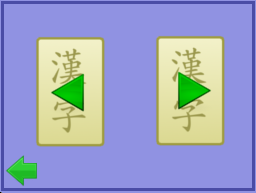
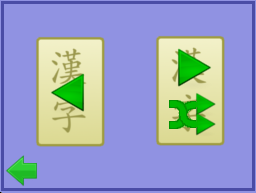
Extended database. Added next random card button. Fixed textboxes positions reset. Changed sounds volume.

Changed region(s): [[0.6562, 0.2487, 0.8438, 0.715]]

diff --git a/src/mainscreenhandler.cpp b/src/mainscreenhandler.cpp
@@ -193,6 +193,7 @@ void MainScreenHandler::SetMode (MainScreenMode::mode screen_mode,
 void MainScreenHandler::PrintCard (const Card& card)
 {
   DrawBgImage ();
+  ResetTextBoxesPositions ();
  	if (screen_mode_ == MainScreenMode::KANJI)
   {
     kanji_->text(card.symbol());
@@ -380,6 +381,58 @@ void MainScreenHandler::DrawBgImage ()
 void MainScreenHandler::Fill (unsigned short color)
 {
   Graphics::Fill (color, Screen::MAIN);
+}
+
+void MainScreenHandler::ResetTextBoxesPositions ()
+{
+  if (screens_handler_)
+  {
+    if (screen_mode_ == MainScreenMode::KANJI)
+    {
+      caption_kanji_->SetProperties(KM_CAPTION_KANJI_X,
+                                    KM_CAPTION_KANJI_Y, 0, 0);
+      kanji_->SetProperties(KM_KANJI_X, KM_KANJI_Y, 0, 0);
+      caption_on_reading_->SetProperties(KM_CAPTION_ON_READING_X,
+                                         KM_CAPTION_ON_READING_Y, 0, 0);
+      on_reading_->SetProperties(KM_ON_READING_X, KM_ON_READING_Y, 0, 0);
+      caption_kun_reading_->SetProperties(KM_CAPTION_KUN_READING_X,
+                                          KM_CAPTION_KUN_READING_Y, 0, 0);
+      kun_reading_->SetProperties(KM_KUN_READING_X, KM_KUN_READING_Y, 0, 0);
+      caption_translation_->SetProperties(KM_CAPTION_TRANSLATION_X,
+                                          KM_CAPTION_TRANSLATION_Y, 0, 0);
+      translation_->SetProperties(KM_TRANSLATION_X, KM_TRANSLATION_Y, 0, 0);
+      caption_example_->SetProperties(KM_CAPTION_EXAMPLE_X,
+                                      KM_CAPTION_EXAMPLE_Y, 0, 0);
+      example_kanji_->SetProperties(KM_EXAMPLE_KANJI_X,
+                                    KM_EXAMPLE_KANJI_Y, 0, 0);
+      example_reading_->SetProperties(KM_EXAMPLE_READING_X,
+                                      KM_EXAMPLE_READING_Y, 0, 0);
+      example_translation_->SetProperties(KM_EXAMPLE_TRANSLATION_X,
+                                          KM_EXAMPLE_TRANSLATION_Y, 0, 0);
+    }
+    else if (screen_mode_ == MainScreenMode::VERTICAL_TEXTBOXES ||
+             screen_mode_ == MainScreenMode::VERTICAL_TEXTBOXES_VISIBLE)
+    {
+      if (boxes_number_ >= 1)
+      {
+        caption_box1_->SetProperties(VTB_CAPTION_BOX1_X,
+                                     VTB_CAPTION_BOX1_Y, 0, 0);
+        box1_->SetProperties(VTB_BOX1_X, VTB_BOX1_Y, 0, 0);
+        if (boxes_number_ >= 2)
+        {
+          caption_box2_->SetProperties(VTB_CAPTION_BOX2_X,
+                                       VTB_CAPTION_BOX2_Y, 0, 0);
+          box2_->SetProperties(VTB_BOX2_X, VTB_BOX2_Y, 0, 0);
+          if (boxes_number_ >= 3)
+          {
+            caption_box3_->SetProperties(VTB_CAPTION_BOX3_X,
+                                         VTB_CAPTION_BOX3_Y, 0, 0);
+            box3_->SetProperties(VTB_BOX3_X, VTB_BOX3_Y, 0, 0);
+          }
+        }
+      }
+    }
+  }
 }
 
 void MainScreenHandler::ClearMembers ()

diff --git a/src/dsmemorizer.cpp b/src/dsmemorizer.cpp
@@ -138,6 +138,9 @@ void DSMemorizer::KanjiMode ()
       if (keys & KEY_A)
         if (main_screen_handler_.ViewNext())
           ++card;
+      if (keys & KEY_X)
+        card = rand()%xmlparser_.package_records() + 1;
+
       if (touch.px > 5 && touch.px < 39 && touch.py > 152 && touch.py < 187)
         done = true;
 
@@ -145,8 +148,10 @@ void DSMemorizer::KanjiMode ()
       // needs to be changed if the image changes
       if (touch.px > 36 && touch.px < 102 && touch.py > 40 && touch.py < 146)
         card--;
-      if (touch.px > 156 && touch.px < 224 && touch.py > 40 && touch.py < 146)
+      if (touch.px > 156 && touch.px < 224 && touch.py > 40 && touch.py < 90)
         card++;
+      if (touch.px > 156 && touch.px < 224 && touch.py > 40 && touch.py < 146)
+        card = rand()%xmlparser_.package_records() + 1;
 
       if (card < 1) card = 1;
       if (card > xmlparser_.package_records())
@@ -329,6 +334,9 @@ void DSMemorizer::VocabularyMode ()
       if (keys & KEY_A)
         if (main_screen_handler_.ViewNext())
           ++card;
+      if (keys & KEY_X)
+        card = rand()%xmlparser_.package_records() + 1;
+
       if (touch.px > 5 && touch.px < 39 && touch.py > 152 && touch.py < 187)
         done = true;
 
@@ -336,8 +344,10 @@ void DSMemorizer::VocabularyMode ()
       // needs to be changed if the image changes
       if (touch.px > 36 && touch.px < 102 && touch.py > 40 && touch.py < 146)
         card--;
-      if (touch.px > 156 && touch.px < 224 && touch.py > 40 && touch.py < 146)
+      if (touch.px > 156 && touch.px < 224 && touch.py > 40 && touch.py < 90)
         card++;
+      if (touch.px > 156 && touch.px < 224 && touch.py > 90 && touch.py < 146)
+        card = rand()%xmlparser_.package_records() + 1;
 
       if (card < 1) card = 1;
       if (card > xmlparser_.package_records())

diff --git a/src/textbox.cpp b/src/textbox.cpp
@@ -38,7 +38,7 @@ void TextBox::Init (Types::Screen::selector screen, int bgid, FT_Face face,
   size_ = size;
   x_ = x;
   y_ = y;
-  width_ = (width==0) ? SCREEN_WIDTH - x - 5 : width;
+  width_ = (width==0) ? SCREEN_WIDTH - x - 10 : width;
   height_ = (height==0) ? ((size_*3)>>1) : height;
   mutable_height_ = (height == 0);
   floats_ = independent_ = false;
@@ -115,6 +115,13 @@ void TextBox::visible (bool v)
   visible_ = v;
 }
 
+void TextBox::SetProperties (int x, int y, int width, int height)
+{
+  Move(x,y);
+  width_ = (width==0) ? SCREEN_WIDTH - x - 10 : width;
+  height_ = (height==0) ? ((size_*3)>>1) : height;
+}
+
 void TextBox::text (const std::string& str)
 {
   text_ = str;
@@ -174,9 +181,9 @@ void TextBox::Print ()
       // Renders in 256 level gray
       FT_Load_Glyph (face_,	glyph_index, FT_LOAD_RENDER);
 
+      pen_x += face_->glyph->metrics.horiBearingX>>6;
       if (visible_)
       {
-        pen_x += face_->glyph->metrics.horiBearingX>>6;
         // Copy the image from the rendered glyph bitmap to the video buffer
         Graphics::PrintBitmap (pen_x,
                                pen_y - (face_->glyph->metrics.horiBearingY>>6),

diff --git a/src/soundhandler.cpp b/src/soundhandler.cpp
@@ -41,12 +41,12 @@ void SoundHandler::Init()
 	sfx_available_[ACTION].rate = 1024;
   sfx_available_[ACTION].handle = 0;
   sfx_available_[ACTION].volume = 60;
-  sfx_available_[ACTION].panning = 128;
+  sfx_available_[ACTION].panning = 150;
 
 	sfx_available_[THEME].id = SFX_FLUTE;
   sfx_available_[THEME].rate = 1024;
   sfx_available_[THEME].handle = 0;
-  sfx_available_[THEME].volume = 150;
+  sfx_available_[THEME].volume = 255;
   sfx_available_[THEME].panning = 128;
 }
 

diff --git a/src/mainscreenhandler.h b/src/mainscreenhandler.h
@@ -66,6 +66,8 @@ private:
   void SetMode (Types::MainScreenMode::mode screen_mode,
                 GameMode::mode game_mode, ScreensHandler* screens_handler,
                 int boxes_number);
+  /// Reset all the textboxes positions
+  void ResetTextBoxesPositions ();
   /// Delete all members
   void ClearMembers ();
   /// Base screens handler

diff --git a/src/textbox.h b/src/textbox.h
@@ -68,6 +68,8 @@ public:
   /// Get the background id
   int bgid () const;
 
+  /// Set the position and dimensions of a TextBox
+  void SetProperties (int x, int y, int width, int height);
   /// Set the text
   void text (const std::string& str);
   /// Set whether the text box floats or not \sa floats_
